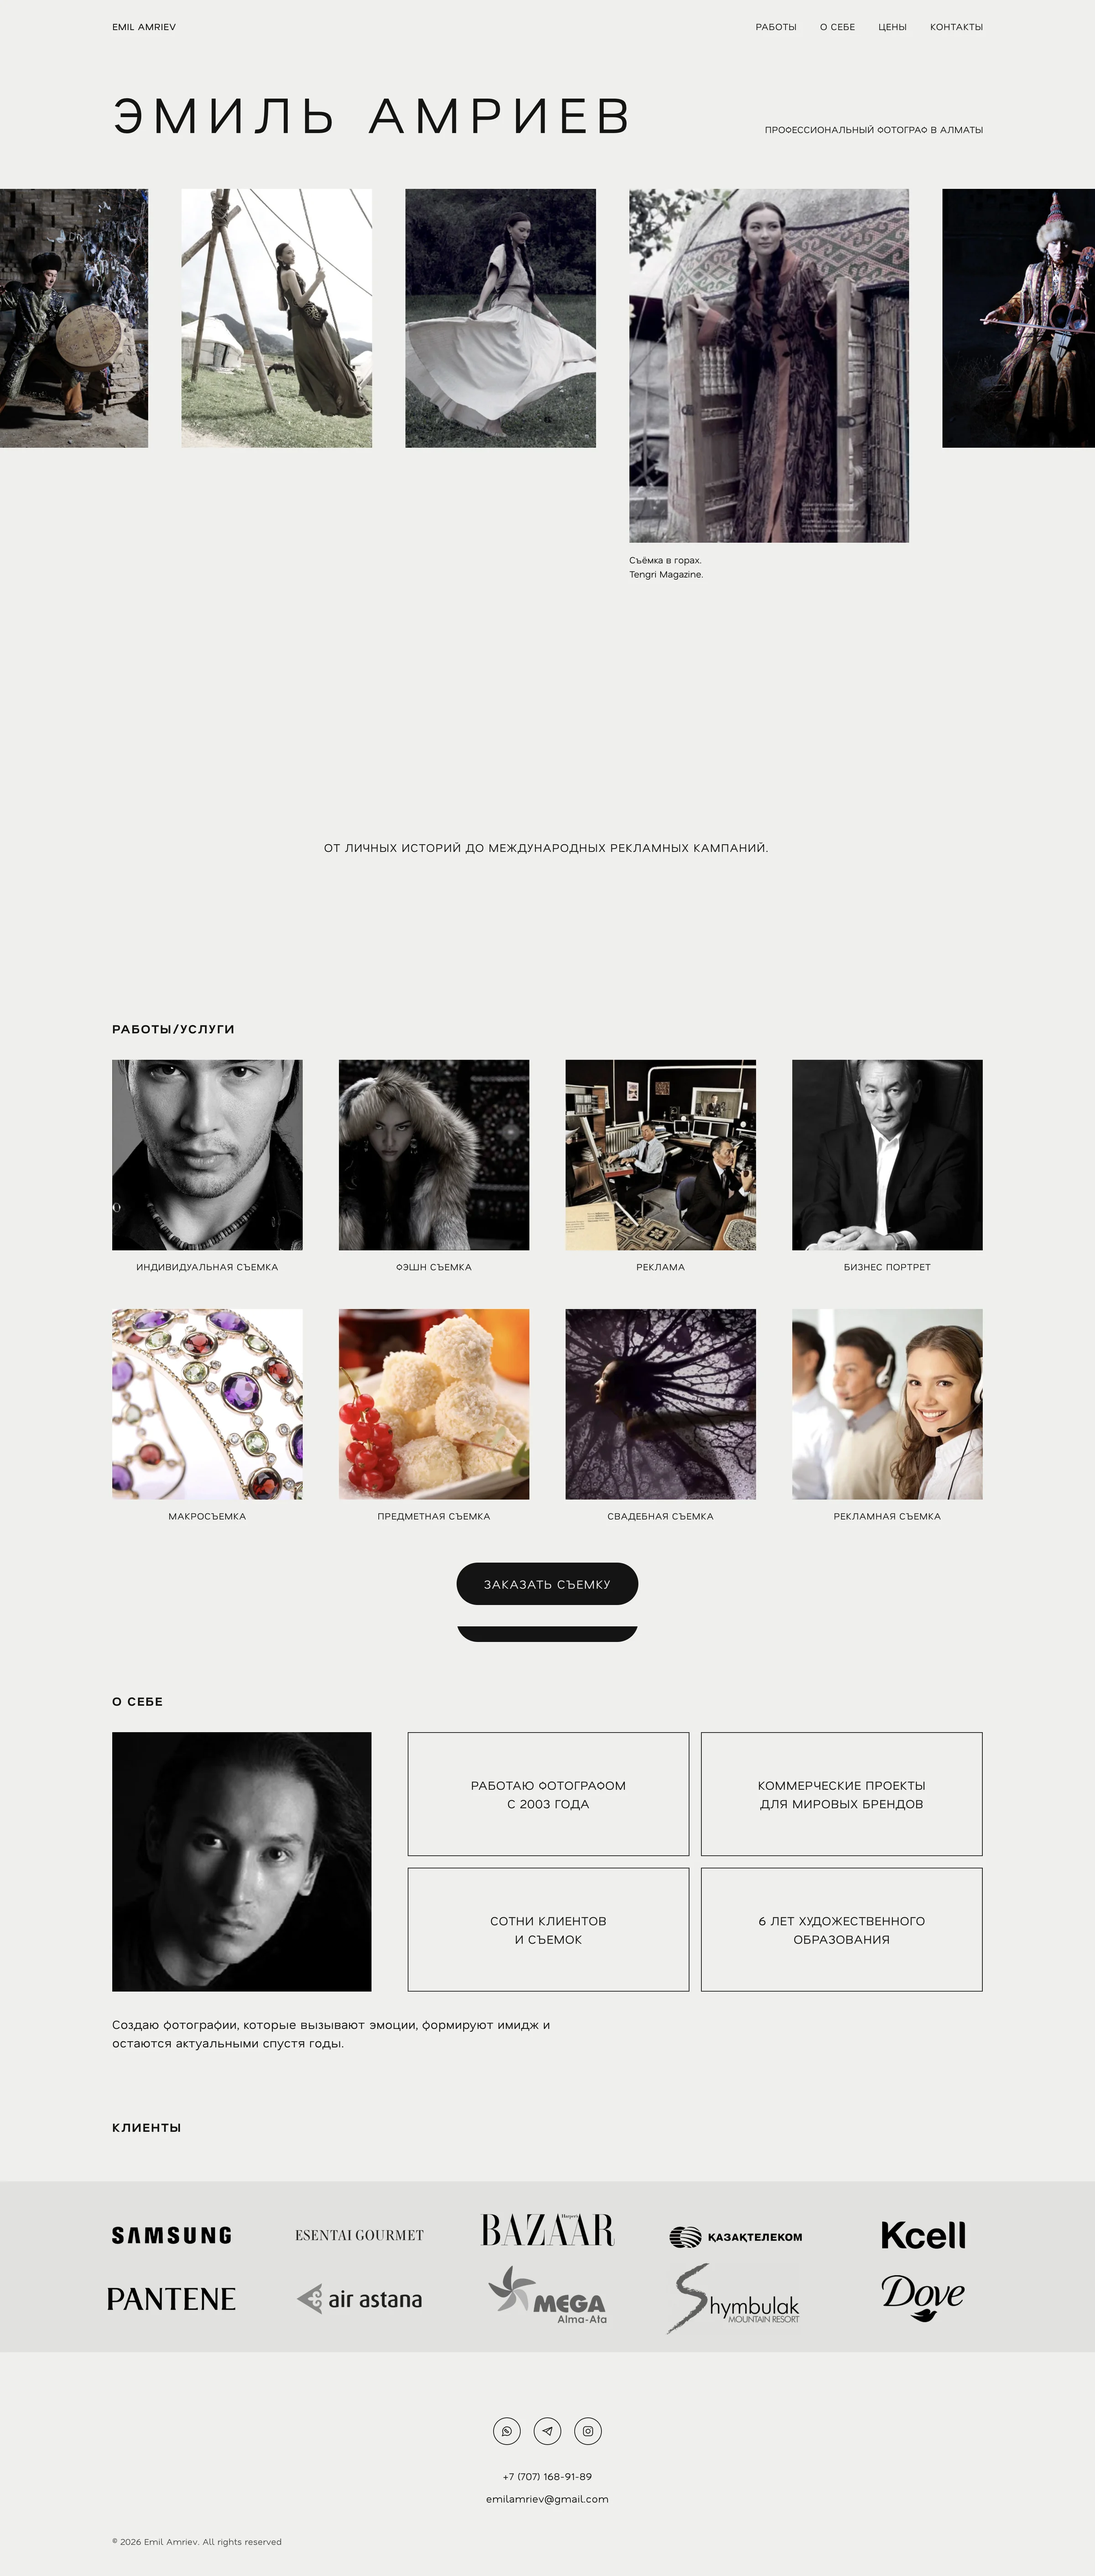
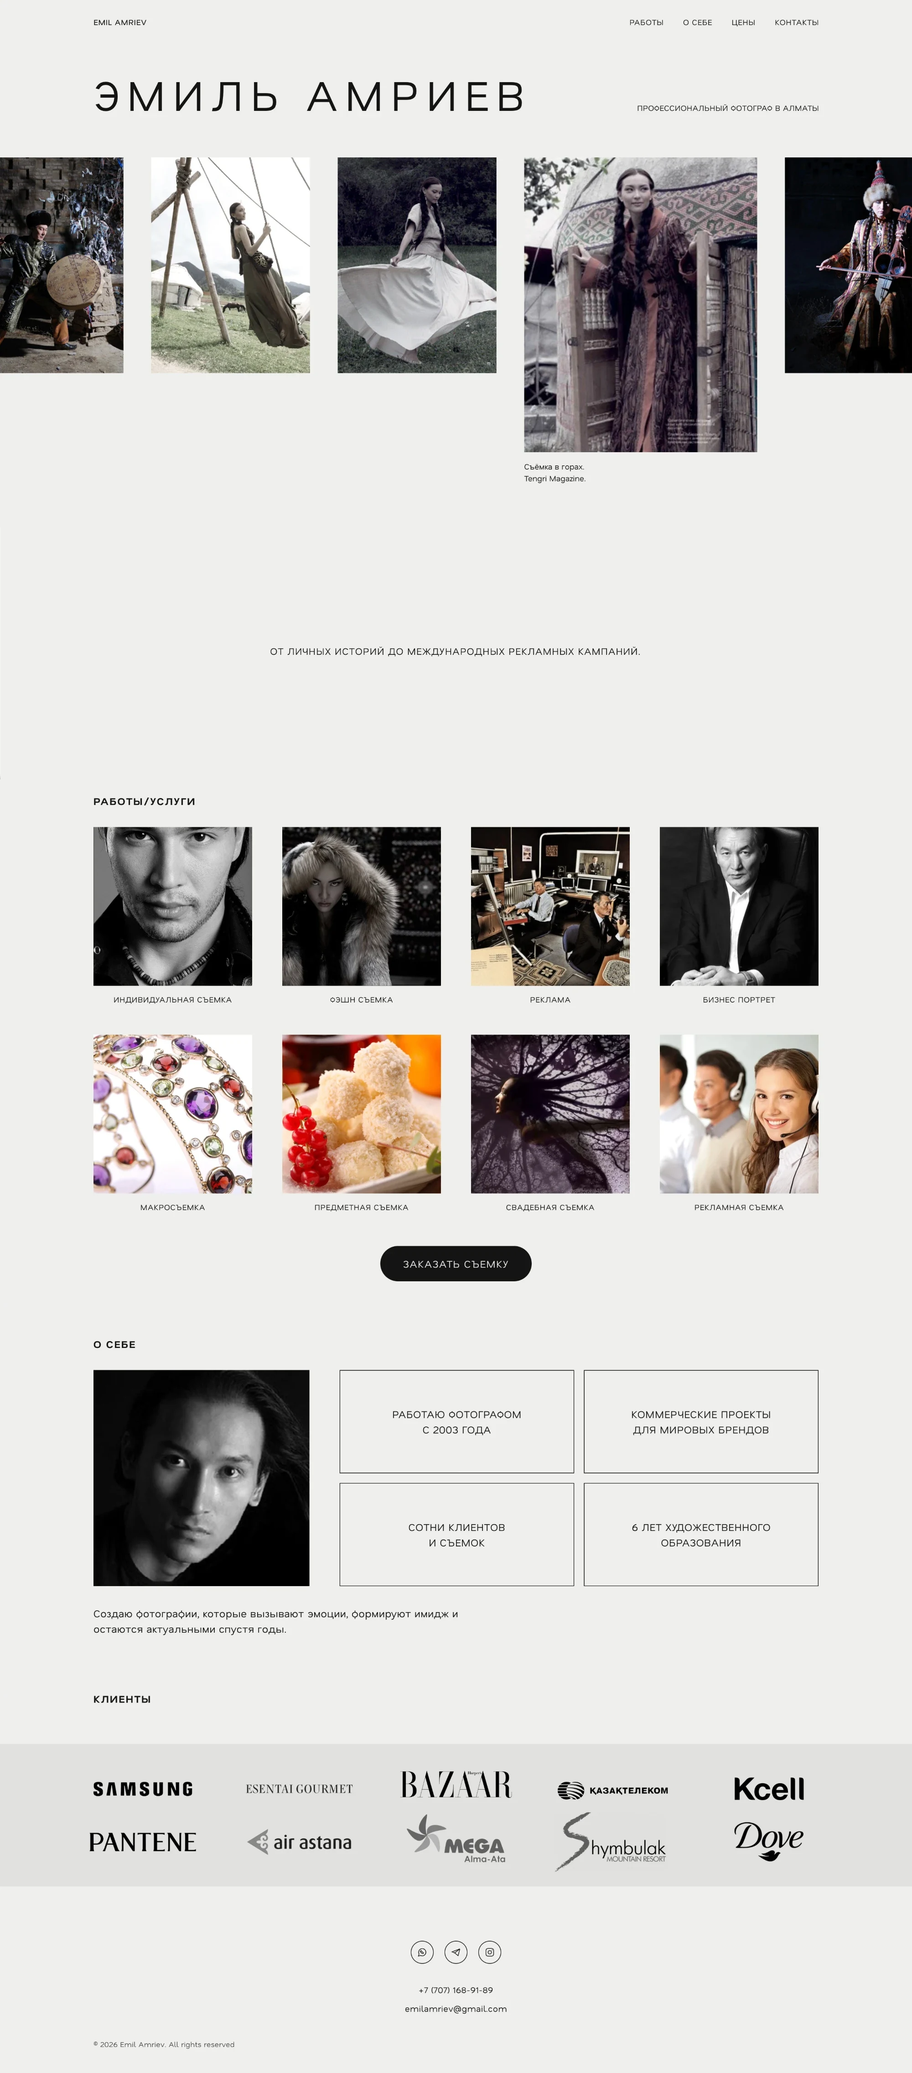
Project 2: rebuild merged screenshot from the new captures
- Five new screenshots of Emil's site stitched into emil-site-full.webp
- Side notes repositioned to where each section now starts
- Version tag on the image so browsers load the new one

Claude-Session: https://claude.ai/code/session_012ihRtN8zWdwy36q6FTmv7e

diff --git a/project-02.html b/project-02.html
@@ -60,13 +60,13 @@
     <!-- Emil's site as one merged screenshot (img/project-2/emil-site-full.webp),
          each note sits beside its section: --top is where that section starts -->
     <div class="stitch reveal">
-      <img class="stitch-img" src="img/project-2/emil-site-full.webp" alt="Full-page screenshot of Emil Amriev’s photography website" width="2400" height="5645">
+      <img class="stitch-img" src="img/project-2/emil-site-full.webp?v=2" alt="Full-page screenshot of Emil Amriev’s photography website" width="2000" height="4543">
       <ol class="stitch-notes">
         <li class="stitch-note" style="--top: 0.0%"><span class="stitch-num">01</span><strong>Hero section</strong>The name is set large in wide-spaced capitals, with a horizontal strip of photographs underneath. Each photo carries a short caption with the shoot and publication.</li>
-        <li class="stitch-note" style="--top: 24.23%"><span class="stitch-num">02</span><strong>Statement</strong>One line in generous white space: “From personal stories to international advertising campaigns.” It gives the work room to breathe before the services.</li>
-        <li class="stitch-note" style="--top: 38.92%"><span class="stitch-num">03</span><strong>Works / Services</strong>Eight shoot types, each shown through one of Emil’s own photographs, followed by a single “Book a shoot” call to action.</li>
-        <li class="stitch-note" style="--top: 63.14%"><span class="stitch-num">04</span><strong>About</strong>A portrait next to four key facts: photographer since 2003, commercial projects for global brands, hundreds of clients, six years of art education.</li>
-        <li class="stitch-note" style="--top: 82.32%"><span class="stitch-num">05</span><strong>Clients &amp; contact</strong>A logo wall of brands Emil has worked with, then a quiet footer with WhatsApp, Telegram and Instagram links.</li>
+        <li class="stitch-note" style="--top: 25.09%"><span class="stitch-num">02</span><strong>Statement</strong>One line in generous white space: “From personal stories to international advertising campaigns.” It gives the work room to breathe before the services.</li>
+        <li class="stitch-note" style="--top: 37.6%"><span class="stitch-num">03</span><strong>Works / Services</strong>Eight shoot types, each shown through one of Emil’s own photographs, followed by a single “Book a shoot” call to action.</li>
+        <li class="stitch-note" style="--top: 62.67%"><span class="stitch-num">04</span><strong>About</strong>A portrait next to four key facts: photographer since 2003, commercial projects for global brands, hundreds of clients, six years of art education.</li>
+        <li class="stitch-note" style="--top: 81.69%"><span class="stitch-num">05</span><strong>Clients &amp; contact</strong>A logo wall of brands Emil has worked with, then a quiet footer with WhatsApp, Telegram and Instagram links.</li>
       </ol>
     </div>
 
